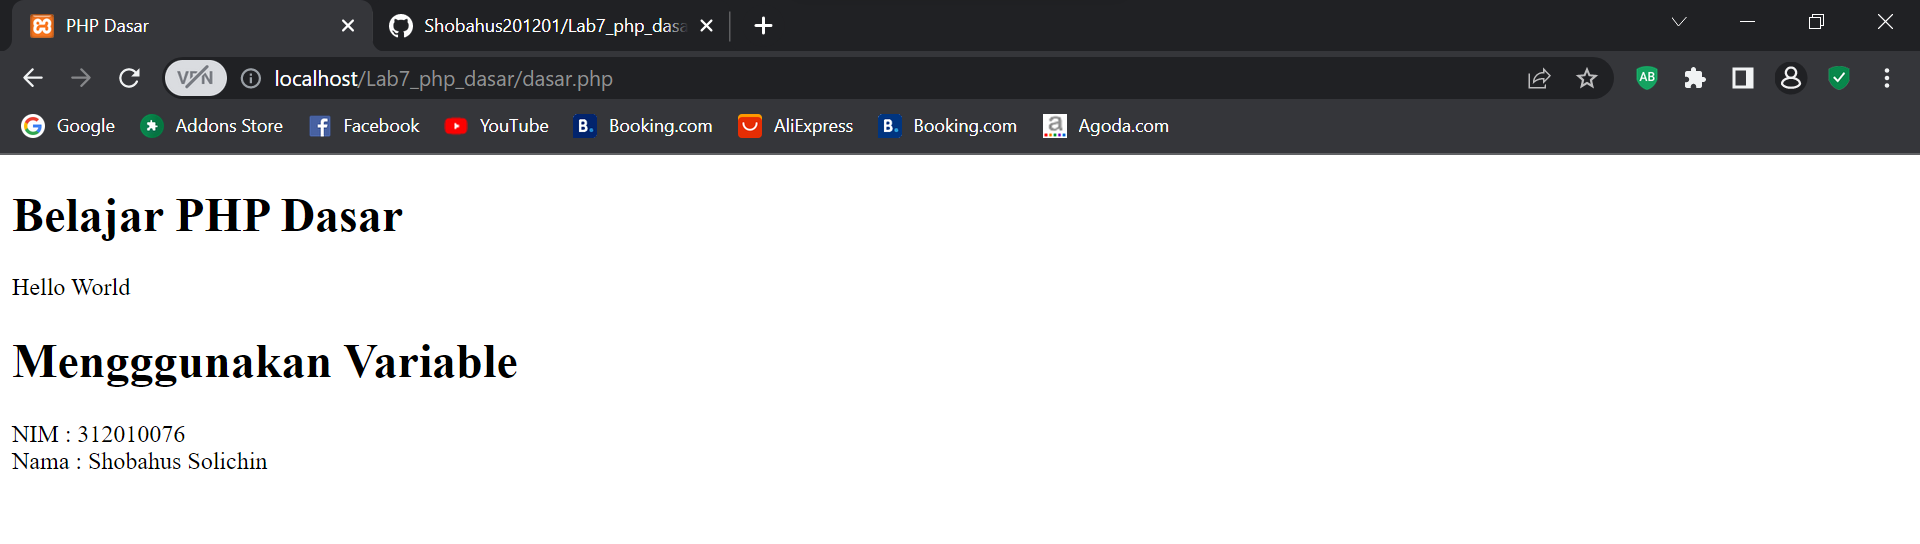
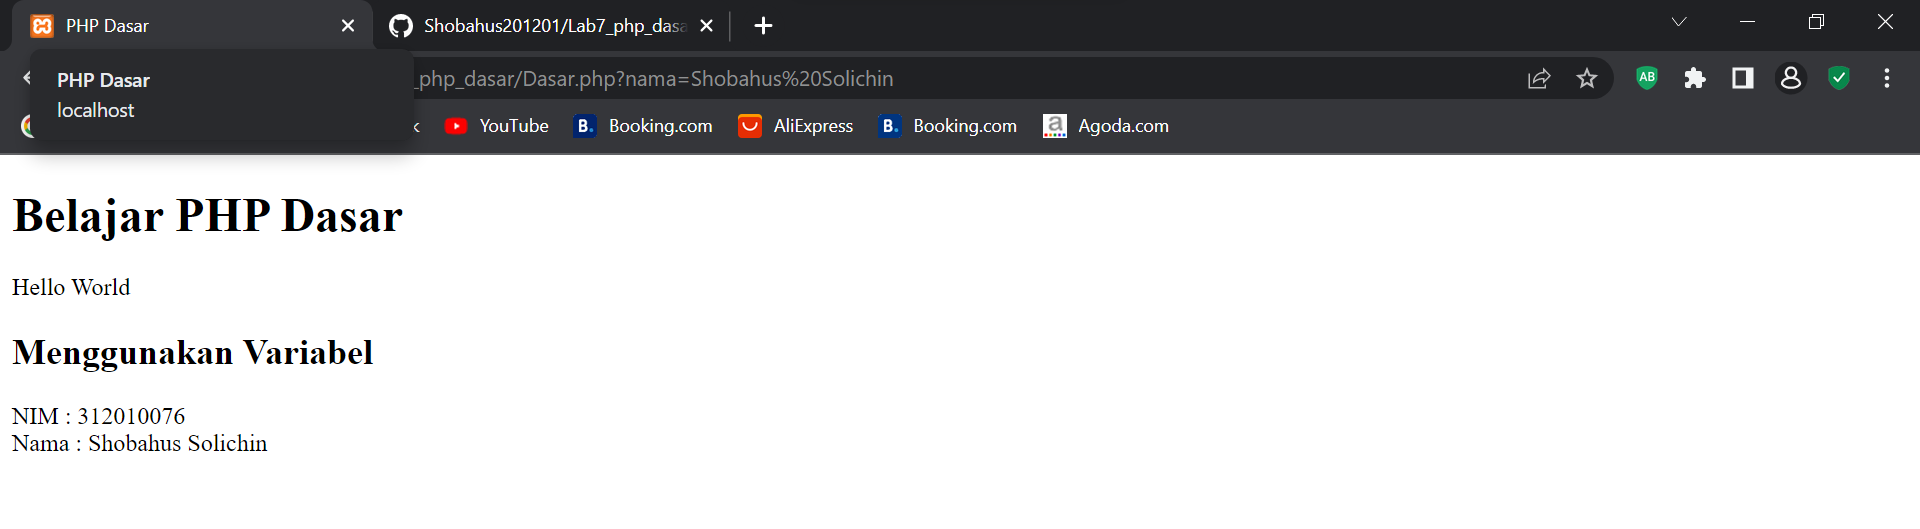
Menambahkan Foto

diff --git a/form-input.php b/form-input.php
@@ -1,0 +1,94 @@
+<!DOCTYPE html>
+<html lang="en">
+
+    <head>
+        <title>Form Input</title>
+        <meta charset="utf-8">
+
+        <!-- CSS -->
+        <style>
+        body {
+            width: 100%;
+            height: 100vh;
+            margin: 0;
+            font-family: tahoma;
+            font-size: 16px;
+        }
+        h1, p {
+            margin: 1em auto;
+            text-align: center;
+        }
+        form {
+            width: 60vw;
+            max-width: 500px;
+            min-width: 300px;
+            margin: 0 auto;
+            padding-bottom: 2em;
+            }
+        label {
+            display: block;
+            margin: 0.5rem 0;
+        }
+        button[type="submit"] {
+            display: block;
+            width: 60%;
+            margin: 1em auto;
+            height: 2em;
+            font-size: 1.1rem;
+            background-color: #e0daca;
+            border-color: white;
+            min-width: 300px;
+        }
+        </style>
+    </head>
+
+    <body>
+        <h1 id="title">Survey Formulir Pekerjaan dan Gaji</h1>
+        <p id="description"><i>Melansir dari situs <a href="https://id.indeed.com/career/php-developer/salaries"> indeed.com</a></i></p>
+
+        <form id="survey-form" action="" method="POST">
+            <fieldset>
+                <label>Nama: 
+                    <input type="text" name="nama" required/>
+                </label>
+                <label>Tanggal lahir: 
+                    <input type="date" name="date">
+                </label>
+                <label>Pekerjaan: 
+                    <label>
+                    <input type="radio" name="job" value="0"/>PHP Developer
+                    </label>
+                    <label>
+                    <input type="radio" name="job" value="1"/>IT Support
+                    </label>
+                    <label>
+                    <input type="radio" name="job" value="2"/>Network Engineer
+                    </label>
+                </label>
+                <button type="submit" name="submit">Kirim</button>
+            </fieldset>
+            <fieldset>
+                <?php
+                if( isset($_POST['submit']))
+                {
+                    $nama = $_POST['nama'];
+                    $date = $_POST['date'];
+                    $job = $_POST['job'];
+
+
+                    $date_user = new DateTime($date);
+                    $today =  new DateTime('today');
+                    $usia = $today->diff($date_user)->y;
+
+                    $job_array = ["PHP Developer","IT Support","Network Engineer"];
+                    $salary_array = ["Rp. 7.000.000","Rp. 4.500.000","Rp. 5.000.000"];
+
+
+                    echo "Halo, ".$nama."<br>Kamu lahir pada tanggal ".$date.", Usia mu ".$usia." tahun";
+                    echo "<br>Pekerjaan yang kamu pilih adalah ".$job_array[(int)$job].", dengan penghasilan kurang lebih ".$salary_array[(int)$job];
+                }
+                ?>
+            </fieldset>
+        </form>
+    </body>
+</html>

diff --git a/Dasar.php b/Dasar.php
@@ -1,9 +1,50 @@
-<h2>Perulangan Dow While </h2>
+<!DOCTYPE html>
+<html lang="en">
+<head>
+<meta charset="UTF-8">
+<title>PHP Dasar</title>
+</head>
+<body>
+<h1>Belajar PHP Dasar</h1>
 <?php
-echo "Perulangan 1 sampai 10 <br />";
-$i=1;
-do {
-echo "Perulangan ke: " . $i . '<br />';
-$i++;
-} while ($i<=10);
+echo "Hello World";
 ?>
+<h2>Menggunakan Variabel</h2>
+<?php
+$nim = "312010076";
+$nama = 'Shobahus Solichin';
+echo "NIM : " . $nim . "<br>";
+echo "Nama : $nama";
+?>
+<h3>Predefine Variabel</h3>
+<?php
+echo 'Selamat Datang ' . $_GET['nama'];
+?>
+<h4>Form Input</h4>
+<!DOCTYPE html>
+<html lang="en">
+<head>
+<meta charset="UTF-8">
+<title>PHP Dasar</title>
+</head>
+<body>
+<h2>Form Input</h2>
+<form method="post">
+<label>Nama: </label>
+<input type="text" name="nama">
+<input type="submit" value="Kirim">
+</form>
+<?php
+echo 'Selamat Datang ' . $_POST['nama'];
+?>
+<h5>Operator</h5>
+<?php
+$gaji = 1000000;
+$pajak = 0.1;
+$thp = $gaji - ($gaji*$pajak);
+echo "Gaji sebelum pajak = Rp. $gaji <br>";
+echo "Gaji yang dibawa pulang = Rp. $thp";
+?>
+
+</body>
+</html>

diff --git a/README.md b/README.md
@@ -89,7 +89,7 @@ echo 'Selamat Datang ' . $_GET['nama'];
 ```
 
 Untuk mengaksesnya gunakan URL:
-http://localhost/Lab7_php_dasar/dasar.php?nama=%20Shoba
+http://localhost/Lab7_php_dasar/Dasar.php?nama=Shobahus%20Solichin
 
 ![Foto](Foto/Foto7.png)
 
